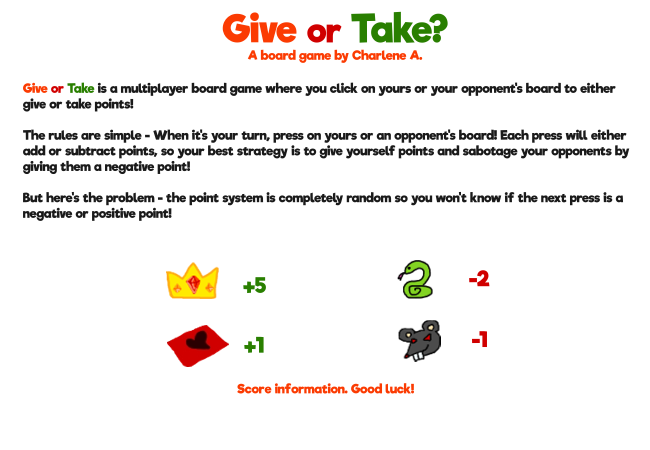
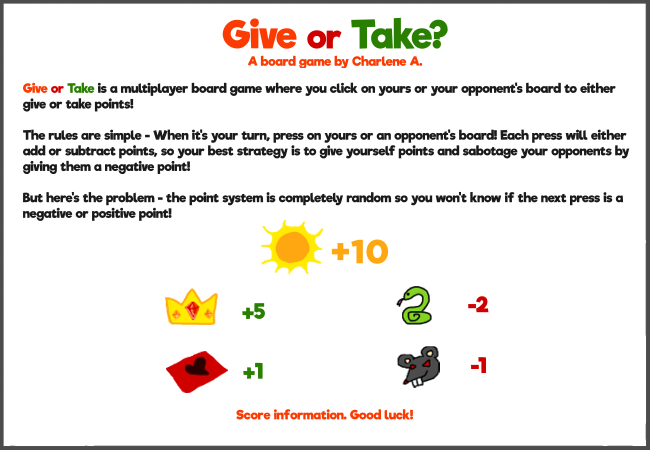
Added a new card into the game. Fixed the value of the points (not matching with tutorial image)

Changed region(s): [[0.0, 0.0, 1.0, 1.0], [0.2462, 0.4978, 0.6769, 0.9333], [0.7077, 0.5911, 0.7692, 0.84]]

diff --git a/Charlene_ScribblesCoding/GiveOrTakeBoardGame/js/Main.js b/Charlene_ScribblesCoding/GiveOrTakeBoardGame/js/Main.js
@@ -19,6 +19,8 @@ const PLAYER_3_BOARD = {x: 12, y: 289}
 const PLAYER_4_BOARD = {x: 299, y: 289}
 
 // assets
+var sun = new Image();
+sun.src = "assets/sun_card.png";
 var heart = new Image();
 heart.src = "assets/heart_card.png";
 var crown = new Image();
@@ -135,7 +137,7 @@ function appearCardQuestion() {
 }
 
 function handleClick(e) {
-  var randomize = Math.floor(Math.random() * 11) + 1; // get a number between 1 - 10
+  var randomize = Math.floor(Math.random() * 20) + 1; // get a number between 1 - 20
   var cardType;
   var pos = getMousePos(e);
   posX = pos.x;
@@ -143,18 +145,21 @@ function handleClick(e) {
 
   if (!isMenu) {
     // set the game points
-    if (randomize <= 3) { // 1 - 3
+    if (randomize <= 4) { // 1 - 4
       scorePoint = -2
       cardType = snake
-    } else if (randomize >= 4 && randomize <= 7) { // 4 - 7
+    } else if (randomize >= 5 && randomize <= 11) { // 5 - 11
       scorePoint = -1
       cardType = rat
-    } else if (randomize >= 8 && randomize <= 9) { // 8 - 9
+    } else if (randomize >= 12 && randomize <= 15) { // 12 - 15
       scorePoint = 1
       cardType = heart
-    } else { // 10 - jackpot score!
+    } else if (randomize >= 16 && randomize <= 19) { // 16 - 19
       scorePoint = 5
       cardType = crown
+    } else { // 20 - jackpot score!
+      scorePoint = 10
+      cardType = sun
     }
   
     if (!isGameOver && isGameStarted) {
@@ -263,7 +268,7 @@ function drawEverything() {
   for (let i = spawnCounter; i < cardArray.length; i++) {
     if (cardArray[i].card === rat) {
       drawPicture(cardArray[i].card, cardArray[i].x, cardArray[i].y, 50, 50);
-    } else if (cardArray[i].card === snake) {
+    } else if (cardArray[i].card === snake || cardArray[i].card === sun) {
       drawPicture(cardArray[i].card, cardArray[i].x, cardArray[i].y, 60, 60);
     } else {
       drawPicture(cardArray[i].card, cardArray[i].x, cardArray[i].y, 60, 40);
